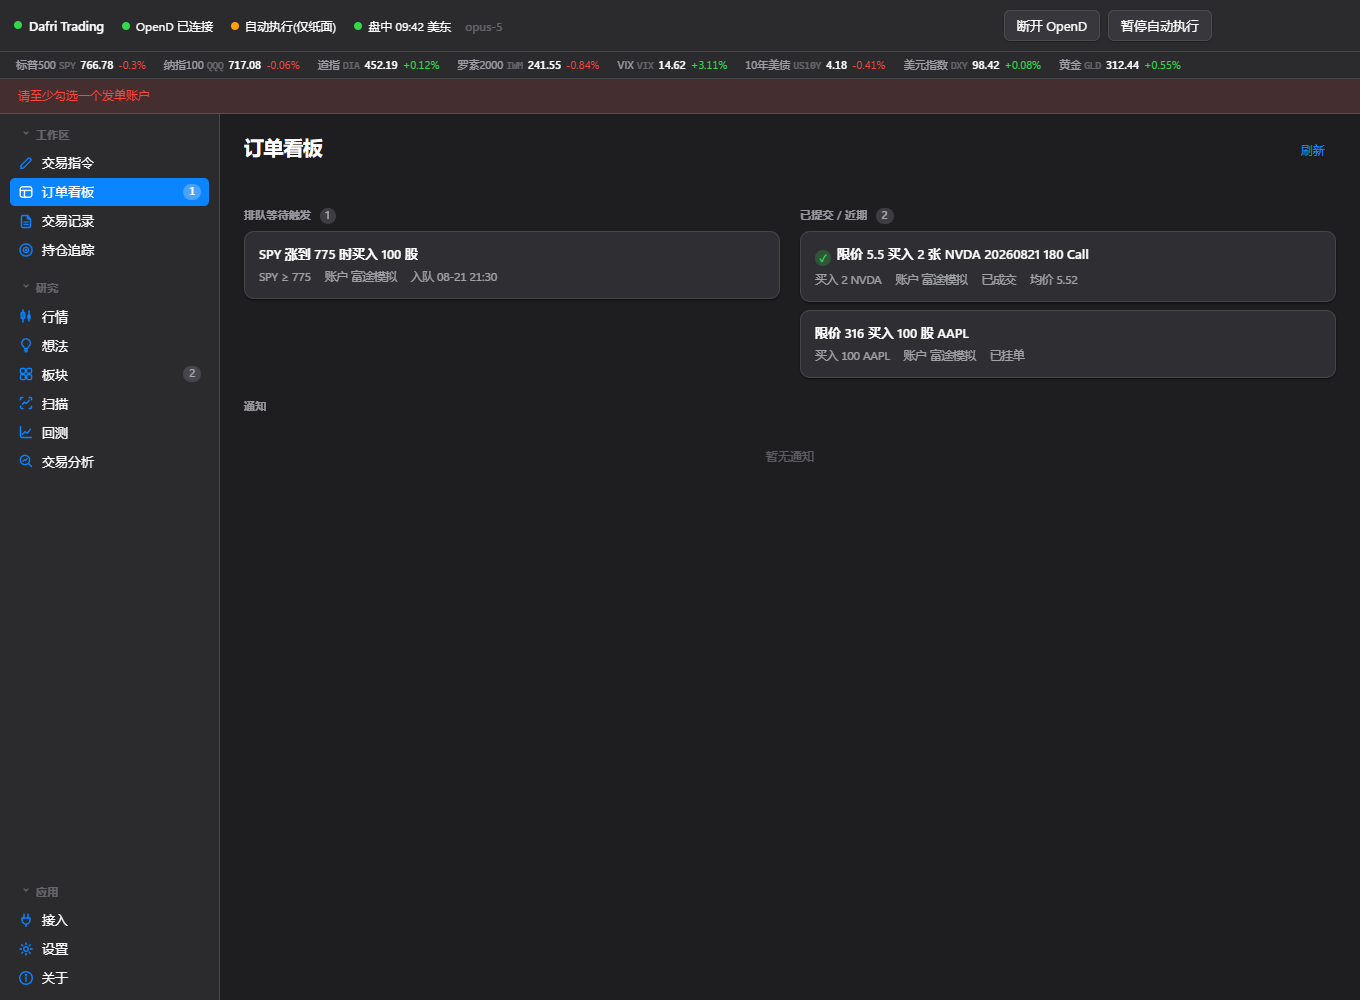
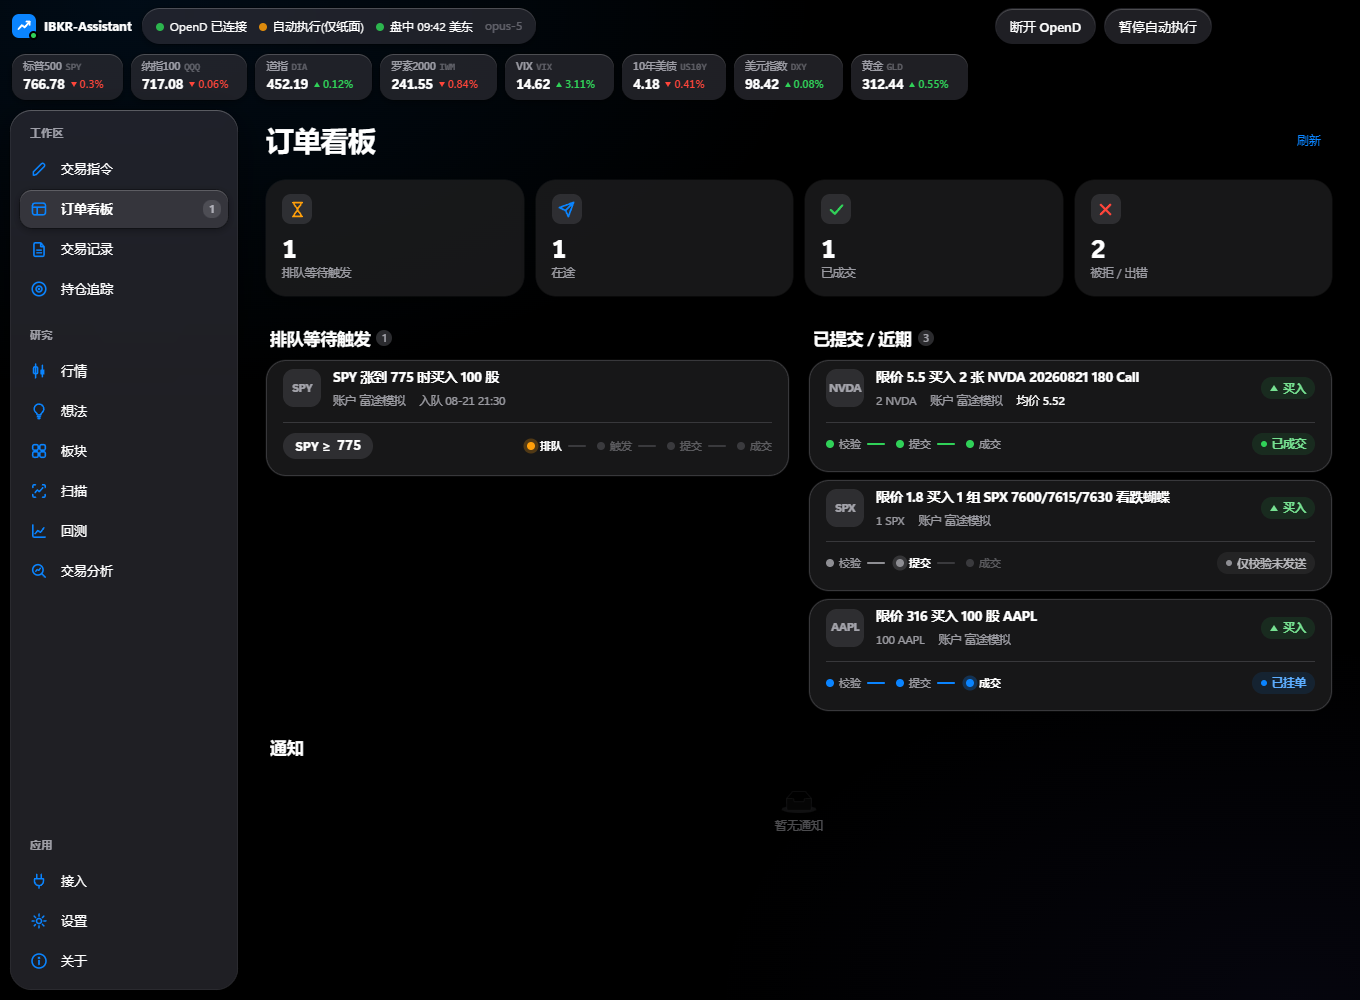
发布 0.3.0:README 按新界面重拍截图,补上标的目标价、追价平仓与休市昨收;预览数据补 prompt_version

diff --git a/desktop/tools/mock-bridge-stress.js b/desktop/tools/mock-bridge-stress.js
@@ -242,7 +242,7 @@ window.dafri = {
   submit: async () => ({submitted:[],queued:[],validated_only:[{intent_summary:'限价 1.8 买入 1 组 SPX 7600/7615/7630 看跌蝴蝶',account:'富途模拟',account_masked:'20***585',is_paper:true,notional:180,ticket:{sec_type:'BAG',symbol:'SPX',action:'BUY',quantity:1,order_type:'LMT',price_mode:'EXPLICIT',limit_price:1.8,aux_price:null,trailing_percent:null,tif:'DAY',expiry:'20260821',strike:null,right:null,multiplier:100,combo_strategy:'BUTTERFLY',legs:[{action:'BUY',ratio:1,strike:7600,right:'P'},{action:'SELL',ratio:2,strike:7615,right:'P'},{action:'BUY',ratio:1,strike:7630,right:'P'}],trigger:null},warnings:[]},
     {intent_summary:'限价 316 买入 100 股 AAPL',ticket:{sec_type:'STK',symbol:'AAPL',action:'BUY',quantity:100,order_type:'LMT',price_mode:'EXPLICIT',limit_price:316,aux_price:null,trailing_percent:null,tif:'DAY',expiry:null,strike:null,right:null,multiplier:100,combo_strategy:null,legs:[],trigger:null},
     account:'富途模拟', account_masked:'20***585', is_paper:true,notional:31600,warnings:['敞口 31600 USD 超过单笔上限 5000 USD']}],
-    rejections:[],warnings:[],llm:{model:'claude-opus-5',latency_ms:2410,
+    rejections:[],warnings:[],llm:{model:'claude-opus-5',prompt_version:'v1.8.0',latency_ms:2410,
     usage:{input_tokens:3120,output_tokens:210}},executed:false}),
   patchSettings: async()=>({}), setApiKey: async()=>({}),
   connectBroker: async()=>({provider:'futu',connected:['opend'],failed:{},listeners:0}),

diff --git a/desktop/tools/mock-bridge.js b/desktop/tools/mock-bridge.js
@@ -293,7 +293,7 @@ window.dafri = {
   submit: async () => ({submitted:[],queued:[],validated_only:[{intent_summary:'限价 1.8 买入 1 组 SPX 7600/7615/7630 看跌蝴蝶',account:'富途模拟',account_masked:'20***585',is_paper:true,notional:180,ticket:{sec_type:'BAG',symbol:'SPX',action:'BUY',quantity:1,order_type:'LMT',price_mode:'EXPLICIT',limit_price:1.8,aux_price:null,trailing_percent:null,tif:'DAY',expiry:'20260821',strike:null,right:null,multiplier:100,combo_strategy:'BUTTERFLY',legs:[{action:'BUY',ratio:1,strike:7600,right:'P'},{action:'SELL',ratio:2,strike:7615,right:'P'},{action:'BUY',ratio:1,strike:7630,right:'P'}],trigger:null},warnings:[]},
     {intent_summary:'限价 316 买入 100 股 AAPL',ticket:{sec_type:'STK',symbol:'AAPL',action:'BUY',quantity:100,order_type:'LMT',price_mode:'EXPLICIT',limit_price:316,aux_price:null,trailing_percent:null,tif:'DAY',expiry:null,strike:null,right:null,multiplier:100,combo_strategy:null,legs:[],trigger:null},
     account:'富途模拟', account_masked:'20***585', is_paper:true,notional:31600,warnings:['敞口 31600 USD 超过单笔上限 5000 USD']}],
-    rejections:[],warnings:[],llm:{model:'claude-opus-5',latency_ms:2410,
+    rejections:[],warnings:[],llm:{model:'claude-opus-5',prompt_version:'v1.8.0',latency_ms:2410,
     usage:{input_tokens:3120,output_tokens:210}},executed:false}),
   patchSettings: async()=>({}), setApiKey: async()=>({}),
   connectBroker: async()=>({provider:'futu',connected:['opend'],failed:{},listeners:0}),

diff --git a/README.md b/README.md
@@ -22,7 +22,9 @@
 
 ![持仓追踪](docs/screenshots/tracker.png)
 
-**持仓追踪** 对任一持仓设止盈、止损、跟踪止损、利润回撤(可按浮盈倍数分档、尾盘收紧)。到价后由引擎发出平仓单,蝴蝶等组合按 BAG 限价单整体平;也可托管到券商侧挂 GTC 单。每秒盯一轮,盯盘在本机,软件必须开着。
+**持仓追踪** 对任一持仓设止盈、止损、跟踪止损、利润回撤(可按浮盈倍数分档、尾盘收紧)。也可以只填**标的目标价**("SPX 到 7740 就走"):引擎按各腿当前报价反解的波动率,每秒把它换算成这份持仓那时该值的价,正股、单腿期权、蝴蝶 / 价差都认,填的时候就摆出预计价位与预估收益。到价后由引擎发出平仓单,蝴蝶等组合按 BAG 限价单整体平;也可托管到券商侧挂 GTC 单,由引擎每秒原地改价。
+
+触发之后是**追价平仓**:平仓单挂在各腿买卖价合成的立刻成交价上,头两秒不动,之后每秒再让一跳,让到设定上限(默认 10%)为止,只朝成交方向动、改的始终是同一张单。部分成交不缩量,手动「立即平仓」遇到已有的托管单会改它而不是另发。个股期权收盘后没有报价时,持仓按昨收显示组合价与盈亏并标明,但昨收不进任何触发判断。每秒盯一轮,盯盘在本机,软件必须开着。
 
 ![K 线 PA](docs/screenshots/priceaction.png)
 
@@ -48,7 +50,7 @@
 
 **交易分析** 从 IBKR 逐笔成交自动合成蝴蝶(1 条 BAG + 3 条腿),画出行权价、到期盈利区、开仓与结局,按规则给出八条结论;叠加蝶价走势回放止盈策略(分档止盈、止损、回撤激活)。
 
-**其他** 想法备忘与 AI 知识提炼;顶栏宏观行情带(标普、纳指、VIX、美债、美元、黄金);TWS / OpenD 连接检测与诊断;深浅色与涨跌配色随系统。
+**其他** 股票池盯价位与盯异动(放量、急涨急跌,置顶不抢焦点的提醒弹窗);想法备忘与 AI 知识提炼;顶栏宏观行情带(标普、纳指、VIX、美债、美元、黄金);TWS / OpenD 连接检测与诊断。界面是 iOS 27 风格的 Liquid Glass,玻璃透明度在「设置」里调,深浅色与涨跌配色随系统。
 
 ## 它怎么工作
 
@@ -123,6 +125,7 @@ cd desktop && npm run ui:preview \
 
 ## 状态
 
-- IBKR 通道在模拟账户上真机核对过:连接、下单、状态与成交回报、佣金、撤单、熔断。
+- IBKR 通道在模拟账户上真机核对过:连接、下单、状态与成交回报、佣金、撤单、熔断;托管蝴蝶止盈单的秒级原地改价、重启认领、成交落闩。
+- 追价平仓(让价节奏、非托管平仓单改价、部分成交后改总量)目前只有离线测试,尚未在真机上核对。
 - 富途 OpenD 通道:检测与诊断可用,下单桥在真机核对前显式不可用。
 - 安装包未签名;macOS 公证需要自己的开发者证书。
